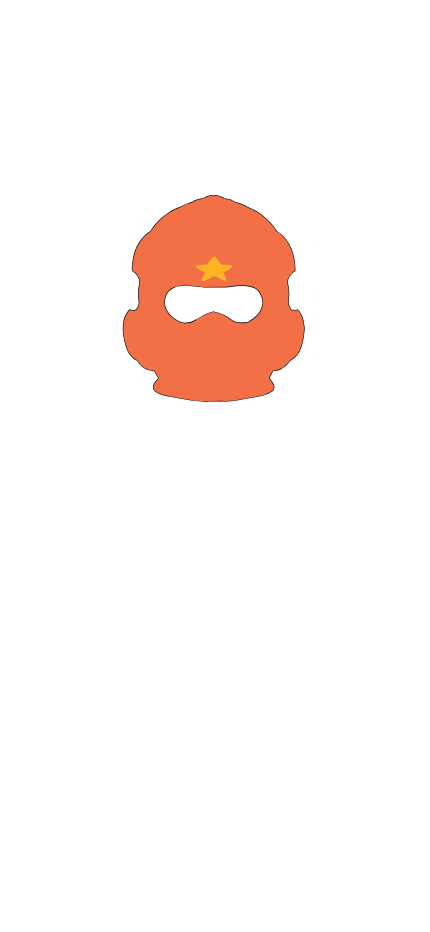
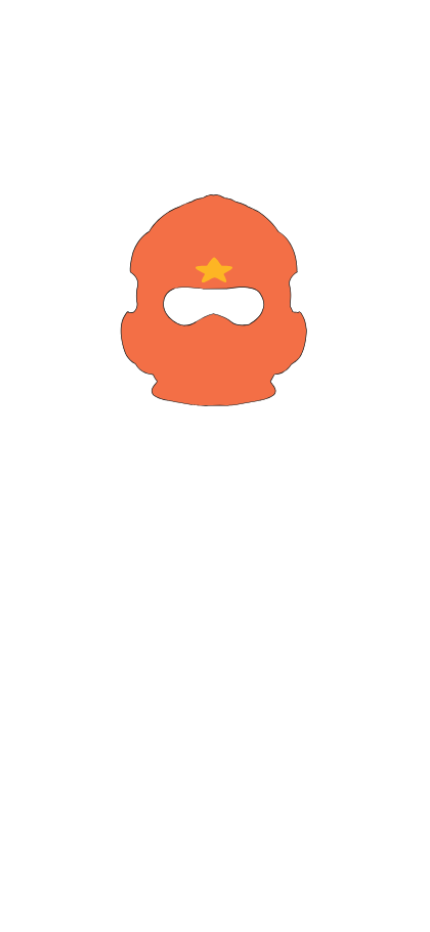
Adjust image sizing

diff --git a/src/Design.js b/src/Design.js
@@ -145,33 +145,33 @@ function Design() {
         <div className='row d-flex justify-content-center p-0 m-0' style={{height: 'inherit', width: 'inherit'}}>
           <div className='col-sm-12 p-0 m-0' style={{position: 'relative' , zIndex: 0, width: 'inherit'}}>
             {selectedBackgroundIndex !== null && (
-              <img className='position-absolute' src={backgroundList[selectedBackgroundIndex]} style={{width: 'inherit' }} alt="background" />
+              <img className='position-absolute' src={backgroundList[selectedBackgroundIndex]} style={{width: 'inherit', height:'100%'  }} alt="background" />
             )}
-            <img className='position-absolute hidden-when-download' src={startDesignText} style={{ width: 'inherit'}} alt="startDesign" />
+            <img className='position-absolute hidden-when-download' src={startDesignText} style={{ width: 'inherit', height:'100%'}} alt="startDesign" />
             <img className='position-absolute' src={body} style={{ width: 'inherit' }} alt="body" /> 
             {selectedPantIndex !== null && (
-              <img className='position-absolute' src={bottomsList[selectedPantIndex]} style={{ width: 'inherit'  }} alt="bottoms" />
+              <img className='position-absolute' src={bottomsList[selectedPantIndex]} style={{ width: 'inherit', height:'100%'  }} alt="bottoms" />
             )}
             {selectedShoesIndex !== null && (
-              <img className='position-absolute' src={shoesList[selectedShoesIndex]} style={{ width: 'inherit'  }} alt="shoes" />
+              <img className='position-absolute' src={shoesList[selectedShoesIndex]} style={{ width: 'inherit', height:'100%'   }} alt="shoes" />
             )}
             {selectedClothIndex !== null && (
-              <img className='position-absolute' src={topsList[selectedClothIndex]} style={{  width: 'inherit' }} alt="tops" />
+              <img className='position-absolute' src={topsList[selectedClothIndex]} style={{  width: 'inherit', height:'100%'  }} alt="tops" />
             )}
             {selectedMouthIndex !== null && (
-              <img className='position-absolute' src={mouthsList[selectedMouthIndex]} style={{  width: 'inherit' }} alt="mouth" />
+              <img className='position-absolute' src={mouthsList[selectedMouthIndex]} style={{  width: 'inherit', height:'100%'  }} alt="mouth" />
             )}
             {selectedNoseIndex !== null && (
-              <img className='position-absolute' src={nosesList[selectedNoseIndex]} style={{ width: 'inherit'  }} alt="nose" />
+              <img className='position-absolute' src={nosesList[selectedNoseIndex]} style={{ width: 'inherit', height:'100%'   }} alt="nose" />
             )}
             {selectedEyesIndex !== null && (
-              <img className='position-absolute' src={eyesList[selectedEyesIndex]} style={{ width: 'inherit'  }} alt="eyes" />
+              <img className='position-absolute' src={eyesList[selectedEyesIndex]} style={{ width: 'inherit', height:'100%'   }} alt="eyes" />
             )}
              {selectedMaskIndex !== null && (
-              <img className='position-absolute' src={maskList[selectedMaskIndex]} style={{ width: 'inherit'  }} alt="mask" />
+              <img className='position-absolute' src={maskList[selectedMaskIndex]} style={{ width: 'inherit', height:'100%'   }} alt="mask" />
             )}
             {selectedGlassesIndex !== null && (
-              <img className='position-absolute' src={glassesList[selectedGlassesIndex]} style={{ width: 'inherit'  }} alt="glasses" />
+              <img className='position-absolute' src={glassesList[selectedGlassesIndex]} style={{ width: 'inherit', height:'100%'   }} alt="glasses" />
             )}
 
           </div>

diff --git a/public/index.html b/public/index.html
@@ -24,7 +24,7 @@
       work correctly both with client-side routing and a non-root public URL.
       Learn how to configure a non-root public URL by running `npm run build`.
     -->
-    <title>Jecks</title>
+    <title>By.CreativeStudio</title>
   </head>
   <body>
     <noscript>You need to enable JavaScript to run this app.</noscript>
